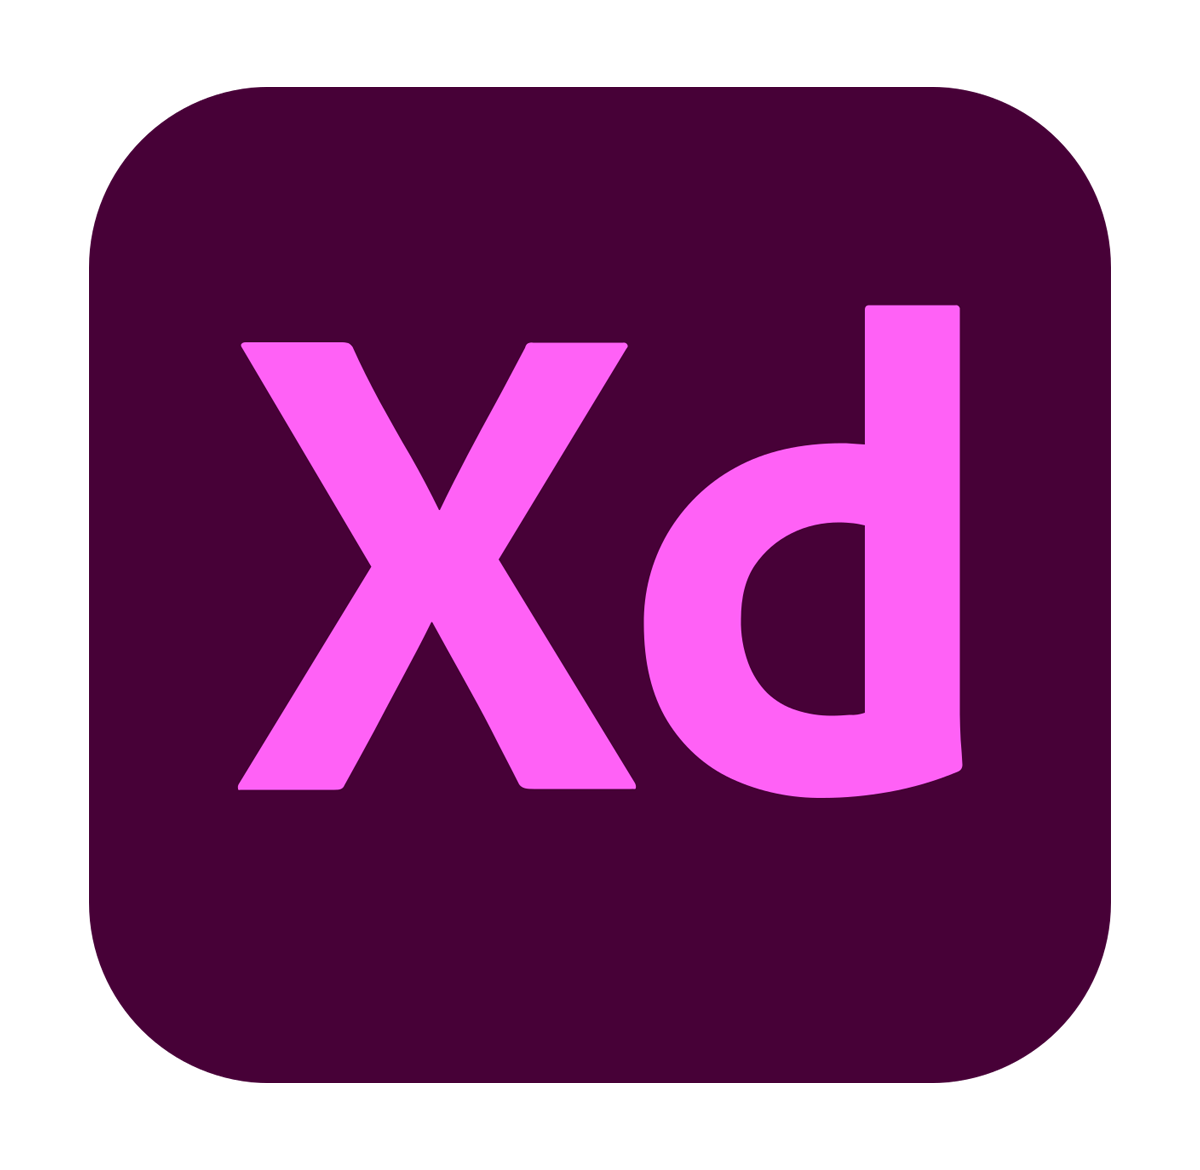
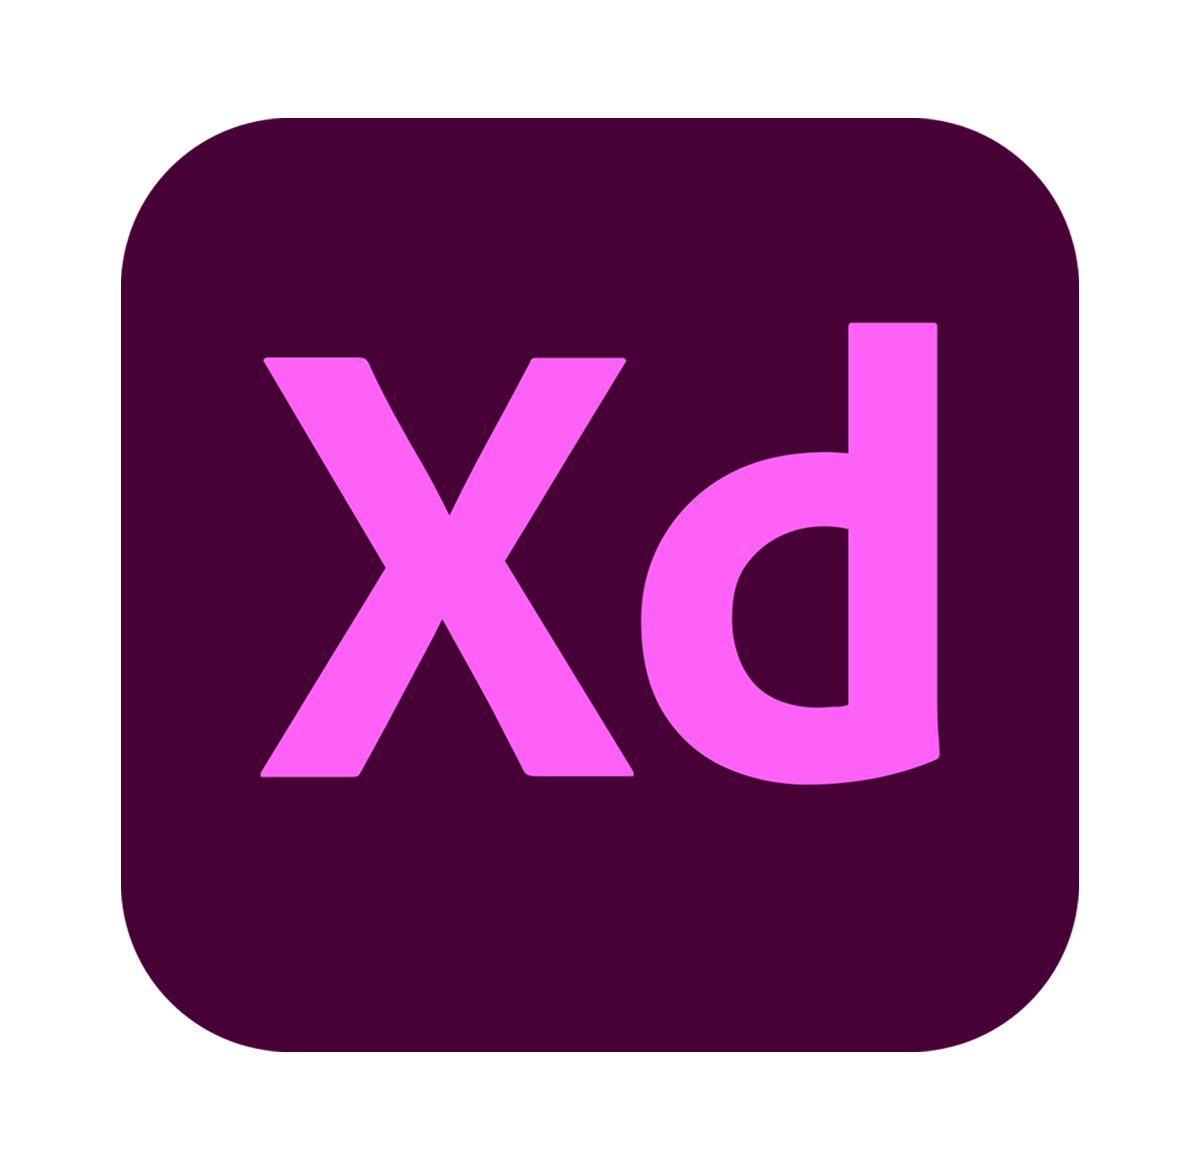
UPDATE: images updated

diff --git a/README.md b/README.md
@@ -48,6 +48,6 @@
    <img style="margin: auto;" src="https://github.com/thusharathiwanka/thusharathiwanka/blob/main/images/tools/fedora.png?raw=true" width="50" height="50"/>
    <img style="margin: auto;" src="https://github.com/thusharathiwanka/thusharathiwanka/blob/main/images/tools/figma.png?raw=true" width="32" height="45"/>
    <img style="margin: auto;" src="https://github.com/thusharathiwanka/thusharathiwanka/blob/main/images/tools/xd.png?raw=true" width="42" height="42"/>
-   <img style="margin: auto;" src="https://raw.githubusercontent.com/thusharathiwanka/thusharathiwanka/main/images/tools/ps.webp?raw=true" width="42" height="42"/>
+   <img style="margin: auto;" src="https://raw.githubusercontent.com/thusharathiwanka/thusharathiwanka/main/images/tools/ps.png?raw=true" width="42" height="42"/>
    <img style="margin: auto;" src="https://raw.githubusercontent.com/thusharathiwanka/thusharathiwanka/main/images/tools/ai.png?raw=true" width="42" height="42"/>
 </p>
